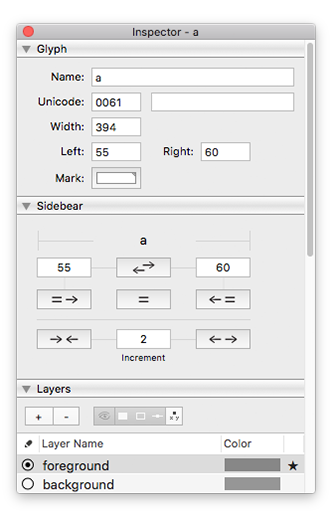
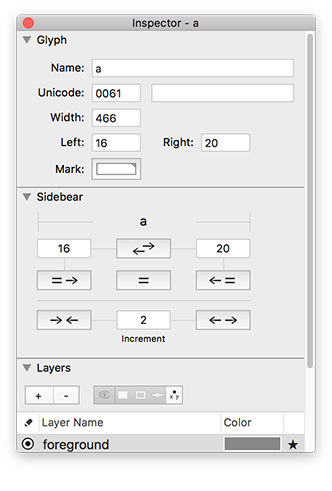
New screenshot & panel dimensions

diff --git a/Sidebear.roboFontExt/lib/Sidebear.py b/Sidebear.roboFontExt/lib/Sidebear.py
@@ -9,7 +9,8 @@ v1.0.4: 2019.05.07
 v1.0.3: 2019.04.09
 v1:     2019.03.28
 
-Special thanks to Just van Rossum & Frederik Berlaen.
+Special thanks to:
+Just van Rossum, Gustavo Ferreira, Frederik Berlaen.
 '''
 
 import os
@@ -32,13 +33,13 @@ class Sidebear(object):
         vert_gutter = 12
         rule_gutter = vert_gutter -2
         text_box_height = 20
-        row_1_y = -4
+        row_1_y = -14
         row_2_y = row_1_y + vert_gutter + text_box_height - 5
         row_3_y = row_2_y + vert_gutter + text_box_height
         row_4_y = row_3_y + text_box_height + rule_gutter
         row_5_y = row_4_y + rule_gutter
         third_width = (window_width - (window_margin * 2) - (gutter * 2)) / 3
-        self.window_height = window_margin*2 + row_5_y + text_box_height + 11
+        self.window_height = window_margin*2 + row_5_y + text_box_height + 9
             
         # The group of elements
         self.w = vanilla.Group((0, 0, -0, -0))
